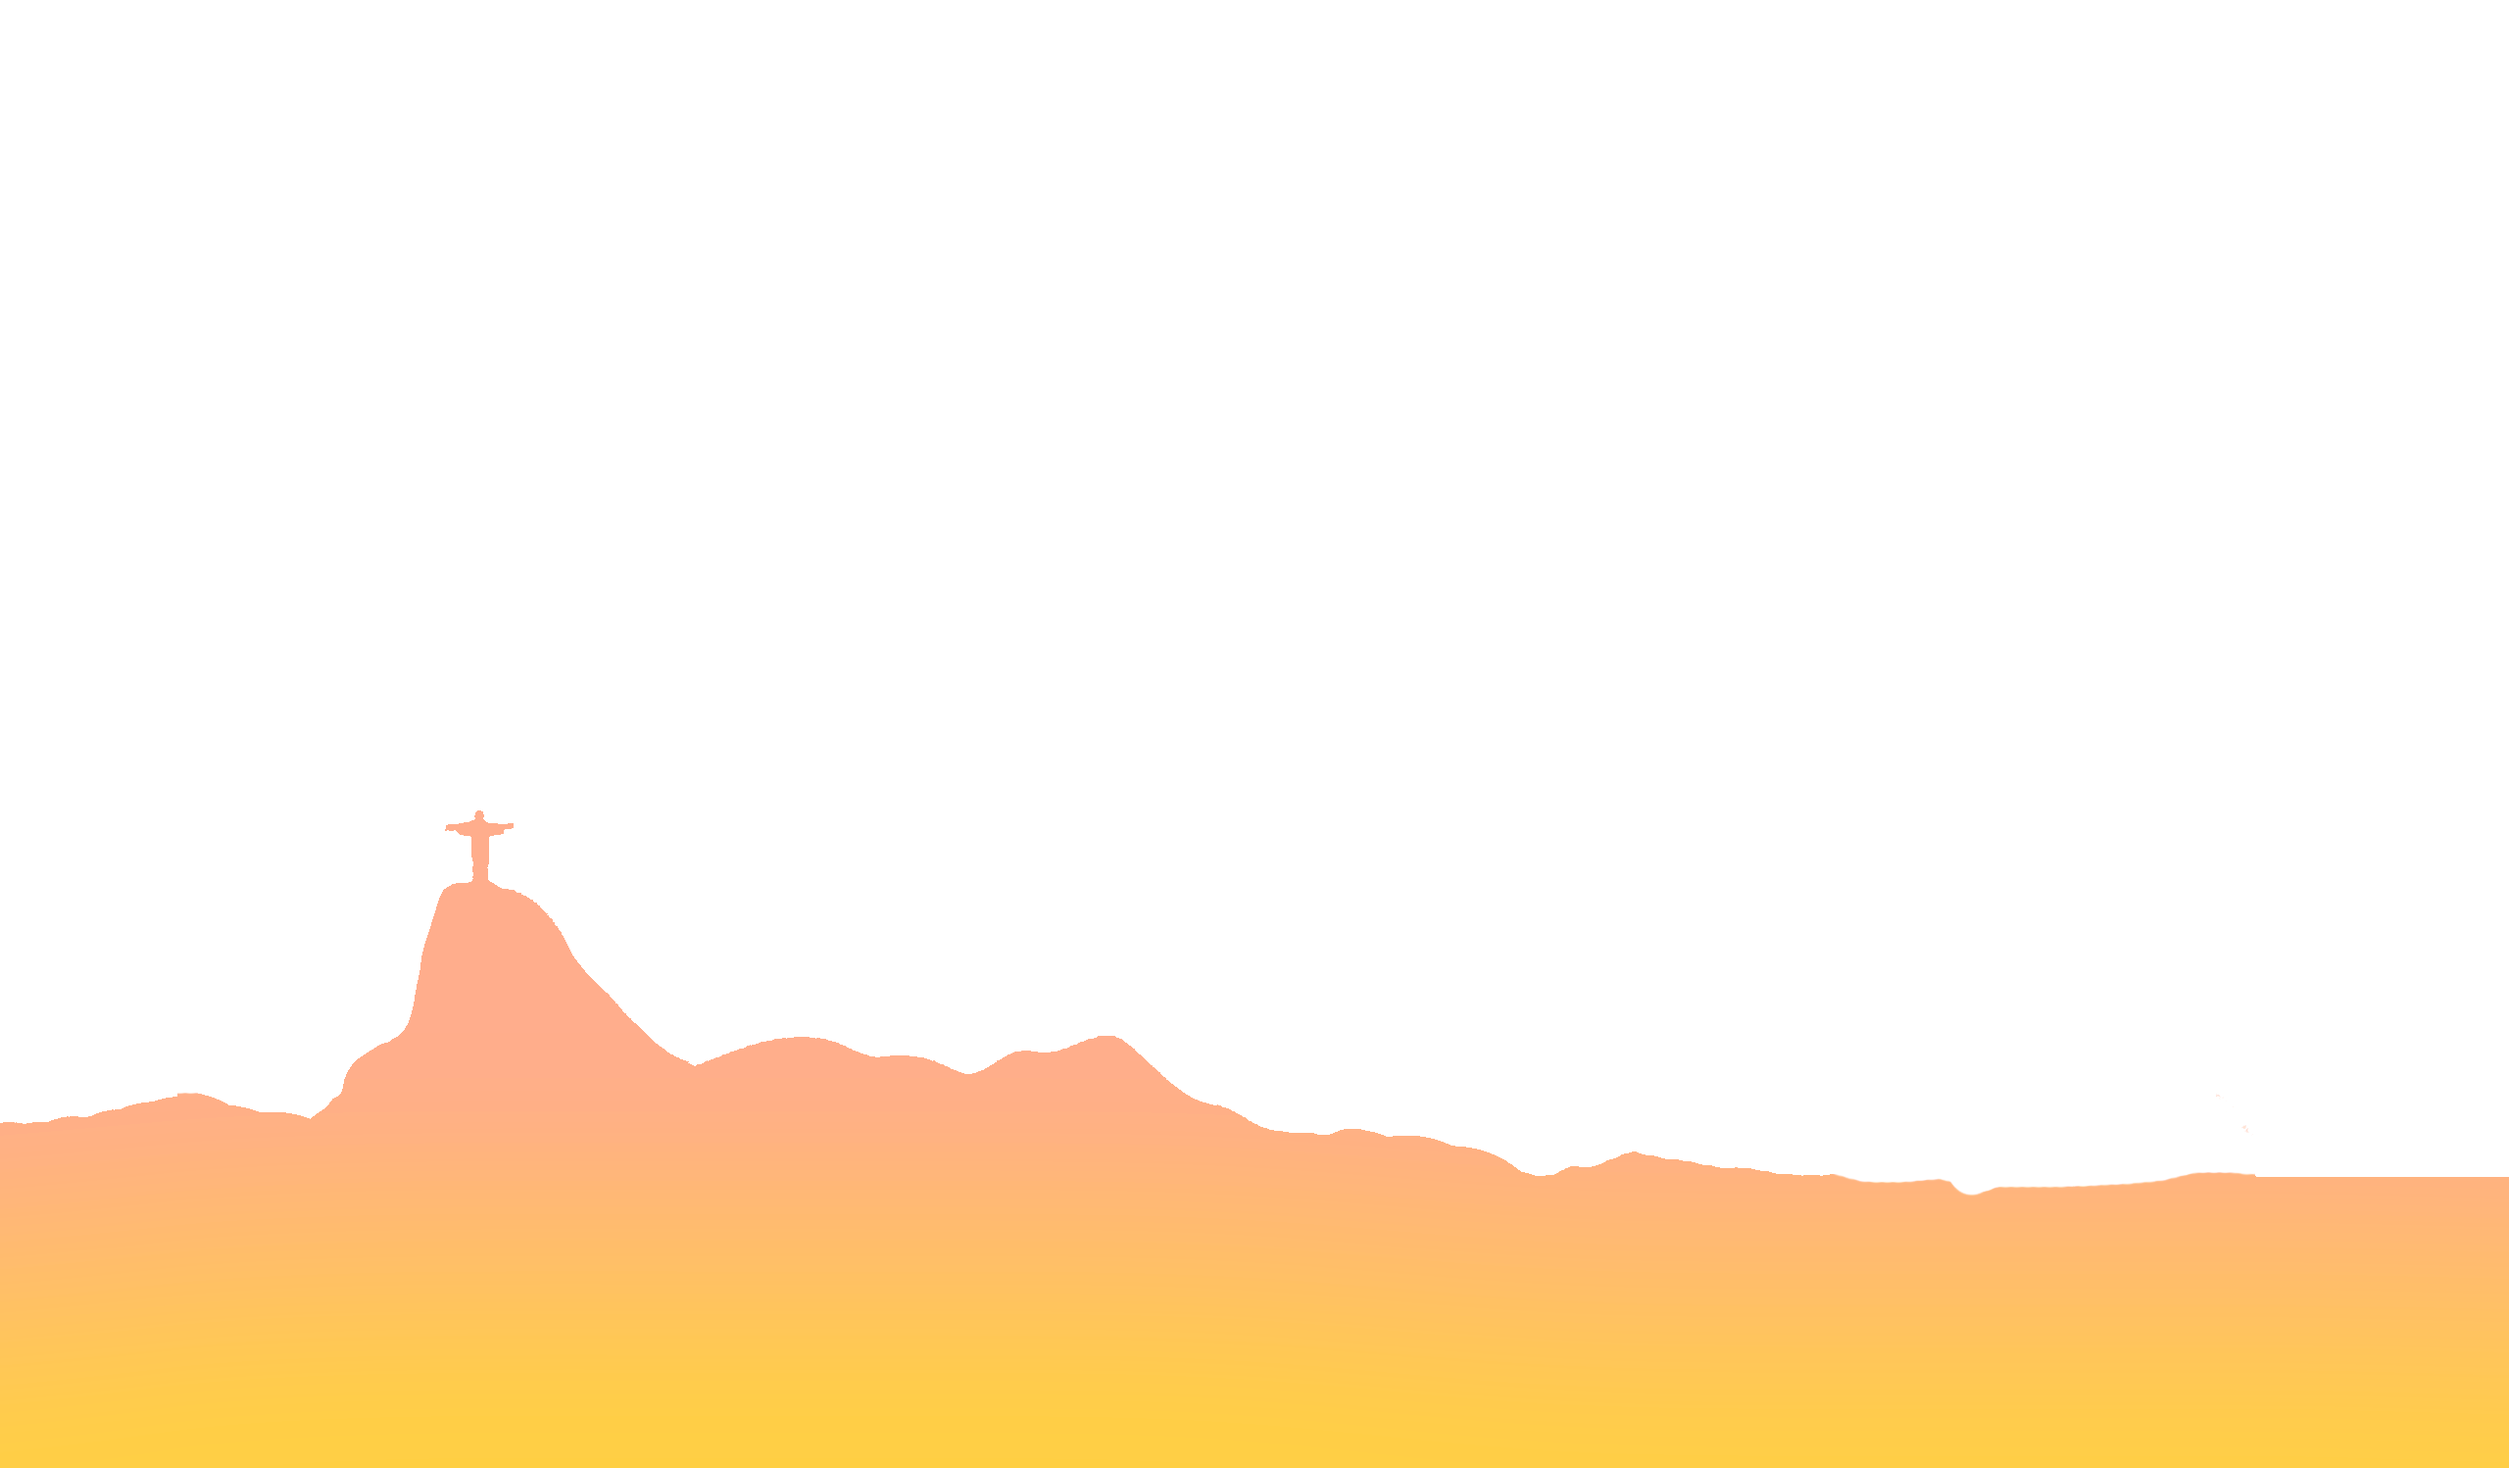
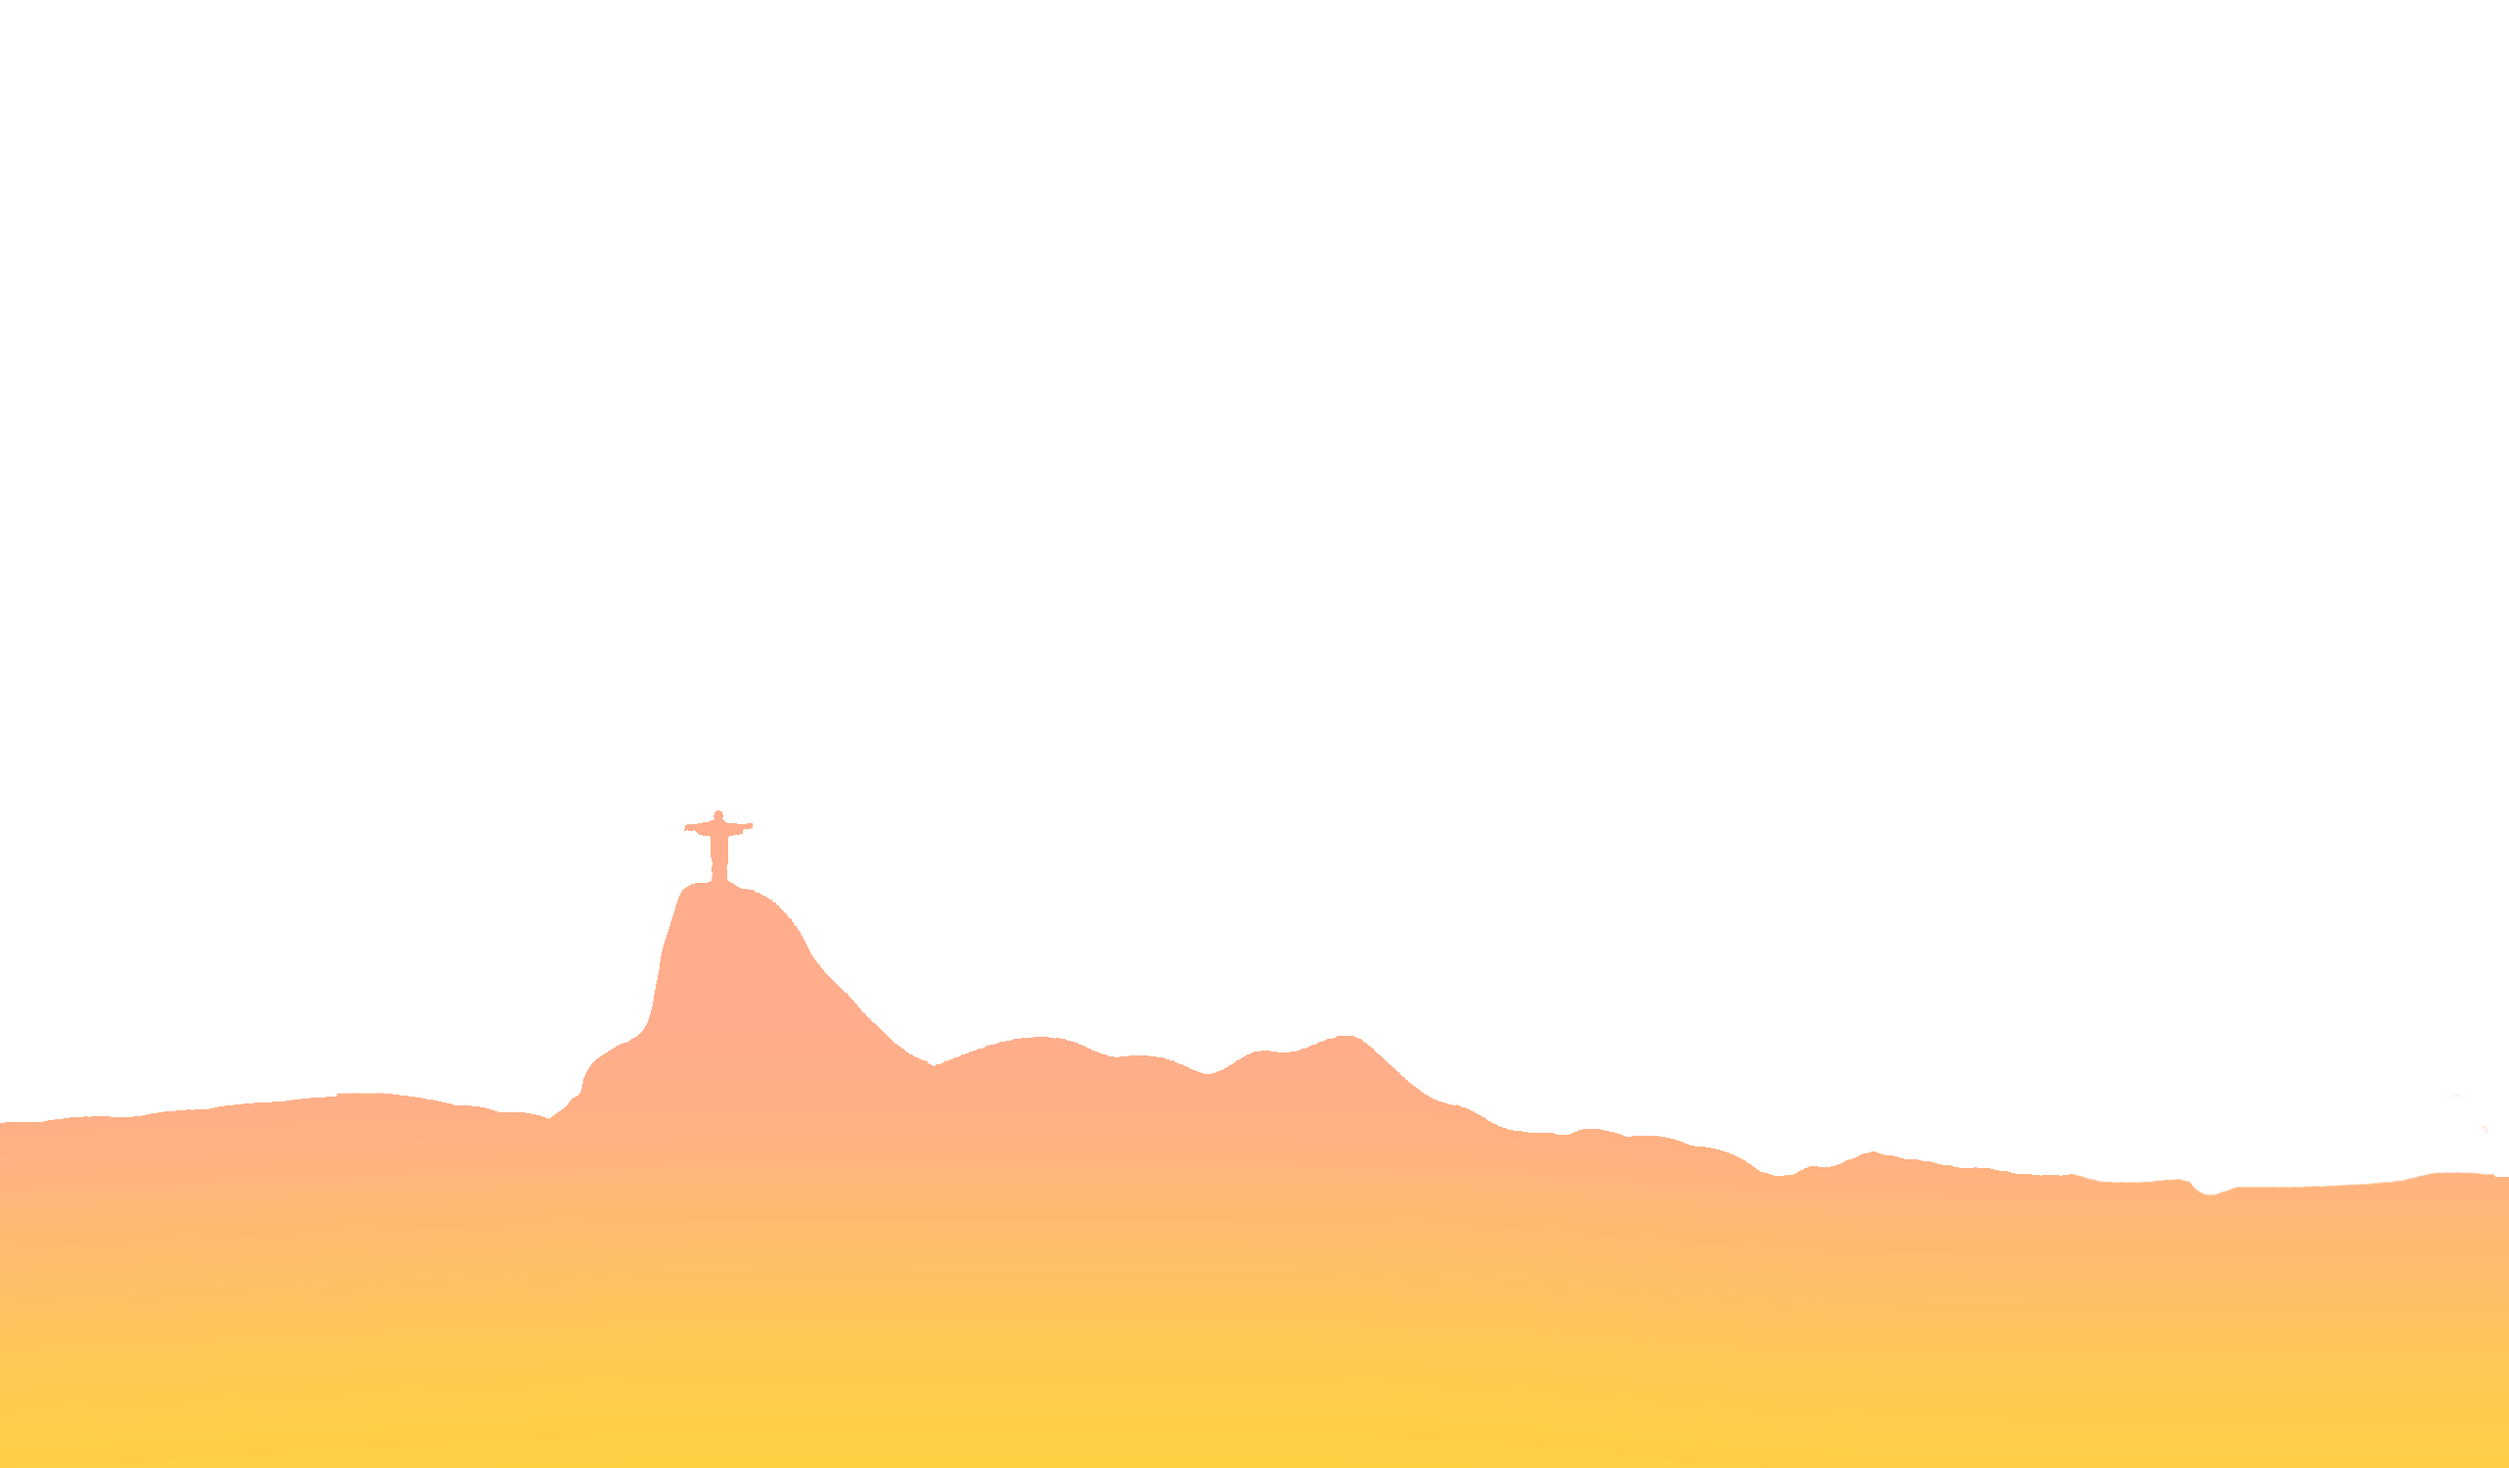
Fix parallax and illustrations

Changed region(s): [[0.0312, 0.5527, 0.6875, 0.7984], [0.7188, 0.7677, 0.8438, 0.8291], [0.875, 0.7984, 0.9688, 0.8291]]

diff --git a/src/index.html b/src/index.html
@@ -31,10 +31,10 @@
 </head>
 <body>
 	<div id="hero">
-		<div class="layer-bg layer" data-type="parallax" data-depth="1.00"></div>
+		<div class="layer-bg layer" data-type="parallax" data-depth="0.20"></div>
 		<div class="layer layer-1" data-type="parallax" data-depth="0.10"></div>
-		<div class="layer layer-2" data-type="parallax" data-depth="0.40"></div>
-		<div class="layer layer-3" data-type="parallax" data-depth="0.70"></div>
+		<div class="layer layer-2" data-type="parallax" data-depth="0.50"></div>
+		<div class="layer layer-3" data-type="parallax" data-depth="0.80"></div>
 		<div class="layer layer-4" data-type="parallax" data-depth="0.95"></div>
 	</div>
 	<div id="hero-mobile"></div>
@@ -46,7 +46,7 @@
 			<div class="main-heading animated fadeInUp">
 				<h1>
 					<span class="mega-title">Summer Academy 2016</span>
-					<span class="sub-title">Faltam 5 Dias</span>
+					<span class="sub-title">Faltam 25 Dias</span>
 				</h1>
 				<div class="button btn-secondary opening-btn">
 					<a href="http://lab.vtex.com/" target="_blank">
@@ -177,7 +177,7 @@
 				</a>
 				<div class="photo-grid">
 					<div class="row">
-						<div class="col-lg-3 col-sm-6 col-xs-12">
+						<div class="col-lg-3 col-sm-4 col-xs-12">
 							<a href="http://lab.vtex.com/blog/meu-verao-na-vtex/">
 								<img class="intern" src="assets/images/interns/henrique.png">
 								<div class="medium">
@@ -186,7 +186,7 @@
 								</div>
 							</a>
 						</div>
-						<div class="col-lg-3 col-sm-6 col-xs-12">
+						<div class="col-lg-3 col-sm-4 col-xs-12">
 							<a href="http://lab.vtex.com/blog/meu-verao-na-vtex/">
 								<img class="intern" src="assets/images/interns/isabella.png">
 								<div class="medium">
@@ -195,7 +195,7 @@
 								</div>
 							</a>
 						</div>
-						<div class="col-lg-3 col-sm-6 col-xs-12">
+						<div class="col-lg-3 col-sm-4 col-xs-12">
 							<a href="http://lab.vtex.com/blog/meu-verao-na-vtex/">
 								<img class="intern" src="assets/images/interns/guilherme.png">
 								<div class="medium">
@@ -204,7 +204,7 @@
 								</div>
 							</a>
 						</div>
-						<div class="col-lg-3 col-sm-6 col-xs-12">
+						<div class="col-lg-3 col-sm-4 col-xs-12">
 							<a href="http://lab.vtex.com/blog/meu-verao-na-vtex/">
 								<img class="intern" src="assets/images/interns/gabriela.png">
 								<div class="medium">
@@ -213,9 +213,7 @@
 								</div>
 							</a>
 						</div>
-					</div>
-					<div class="row">
-						<div class="col-lg-3 col-sm-6 col-xs-12">
+						<div class="col-lg-3 col-sm-4 col-xs-12">
 							<a href="http://lab.vtex.com/blog/meu-verao-na-vtex/">
 								<img class="intern" src="assets/images/interns/genezys.png">
 								<div class="medium">
@@ -224,7 +222,7 @@
 								</div>
 							</a>
 						</div>
-						<div class="col-lg-3 col-sm-6 col-xs-12">
+						<div class="col-lg-3 col-sm-4 col-xs-12">
 							<a href="http://lab.vtex.com/blog/meu-verao-na-vtex/">
 								<img class="intern" src="assets/images/interns/matheus.png">
 								<div class="medium">
@@ -233,7 +231,7 @@
 								</div>
 							</a>
 						</div>
-						<div class="col-lg-3 col-sm-6 col-xs-12">
+						<div class="col-lg-3 col-sm-4 col-xs-12">
 							<a href="http://lab.vtex.com/blog/meu-verao-na-vtex/">
 								<img class="intern" src="assets/images/interns/alena.png">
 								<div class="medium">
@@ -242,7 +240,7 @@
 								</div>
 							</a>
 						</div>
-						<div class="col-lg-3 col-sm-6 col-xs-12">
+						<div class="col-lg-3 col-sm-4 col-xs-12">
 							<a href="http://lab.vtex.com/blog/meu-verao-na-vtex/">
 								<img class="intern" src="assets/images/interns/gabriel.jpg">
 								<div class="medium">
@@ -365,8 +363,12 @@
 	<div class="about-vtex">
 		<div class="container-fluid">
 			<div class="row">
-				<div class="col-lg-5 col-md-10 col-sm-12 col-xs-12">
+				<div class="col-lg-12 col-md-10 col-sm-12 col-xs-12">
 					<h4>A VTEX</h4>
+				</div>
+			</div>
+			<div class="row">
+				<div class="col-lg-5 col-md-10 col-sm-12 col-xs-12">
 					<h3>Através do <strong>VTEX Academy</strong>, você irá conhecer e vivenciar a cultura da VTEX.</h3>
 					<p>No período de Janeiro a Março, você será o responsável pela concepção e construção de soluções reais para e-commerce. Os projetos desenvolvidos podem otimizar processos internos ou, ainda, melhorar a experiência de compra de milhares de pessoas.</p>
 					<div class="button btn-secondary">
@@ -374,6 +376,9 @@
 							<span class="button-value">Conheça a VTEX</span>
 						</a>
 					</div>
+				</div>
+				<div class="col-lg-6 col-lg-offset-1 col-md-10 col-sm-12 col-xs-12">
+					<iframe width="560" height="315" src="https://www.youtube.com/embed/vjWDiOs7u6Y" frameborder="0" allowfullscreen></iframe>
 				</div>
 			</div>
 		</div>

diff --git a/src/assets/stylesheets/academy.less b/src/assets/stylesheets/academy.less
@@ -140,7 +140,7 @@ a:hover {
 	padding: 150px 0;
 	font-weight: 400;
 	color: #fff;
-	background-color: #171719;
+	background-color: #130024;
 }
 
 .nitty-gritty {
@@ -283,6 +283,12 @@ a:hover {
 	padding-top: 50px;
 }
 
+iframe {
+	margin-top: 10px;
+	border: solid 10px #fff;
+	width: 100%;
+}
+
 /*----------  Past Academy  ----------*/
 .past-academy {
 	padding: 150px 0 150px;
@@ -333,6 +339,9 @@ footer {
 	.main-heading { top: 25vh; }
 	.about-vtex { padding-bottom: 100px; }
 	.quote { padding-bottom: 0; }
+	.benefits { padding: 100px 0 0 15px; }
+	iframe { height: 500px; }
+	ul { margin-left: 15px; }
 }
 
 @media (max-width: 750px) {
@@ -347,17 +356,17 @@ footer {
 	.opening-btn { top: 45vh; margin-left: 0; }
 	.about { padding: 100px 0; }
 	.nitty-gritty { padding: 100px 0; }
-	.benefits { padding: 100px 0 0 15px; }
 	.past-academy h4 { padding: 100px 0 0; }
 	.photo-grid { padding: 0 0 0; }
 	.testimonials { padding: 0 0 100px; }
 	.about-vtex { padding: 100px 0 100px; }
-	ul { margin-left: 15px; }
 	.quote h2 { font-size: 2em; }
 	.quote-comp {	display: block; }
+	iframe { height: 500px; }
 }
 
 @media (max-width: 550px) {
+	iframe { height: 250px; }
 	.nitty-gritty {
 		h2 { font-size: 1.6em; }
 		li {
@@ -449,7 +458,7 @@ footer {
 
 .layer {
 	background-position: bottom center;
-	background-size: auto;
+	background-size: cover;
 	background-repeat: no-repeat;
 	width: 100%;
 	height: 100vh;
